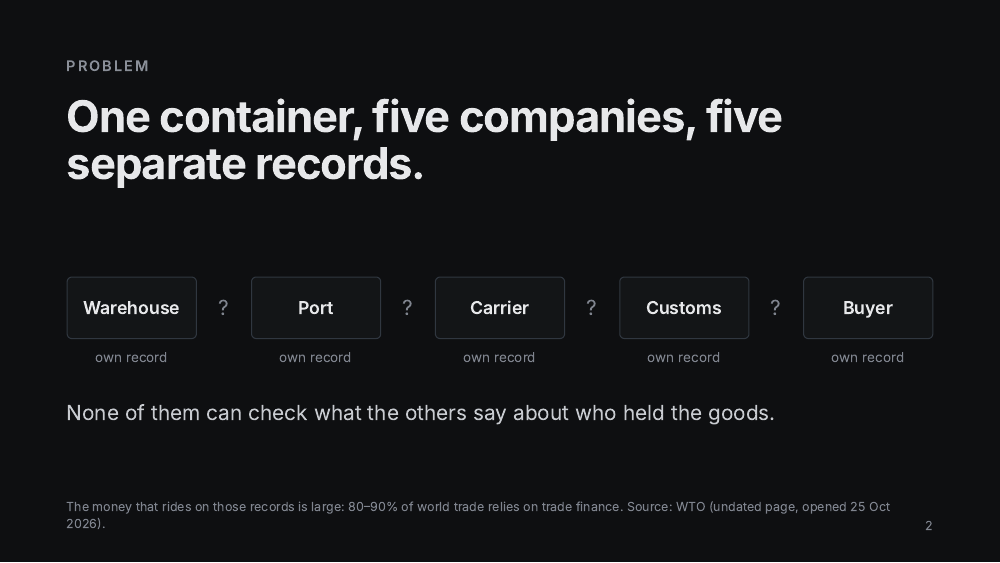
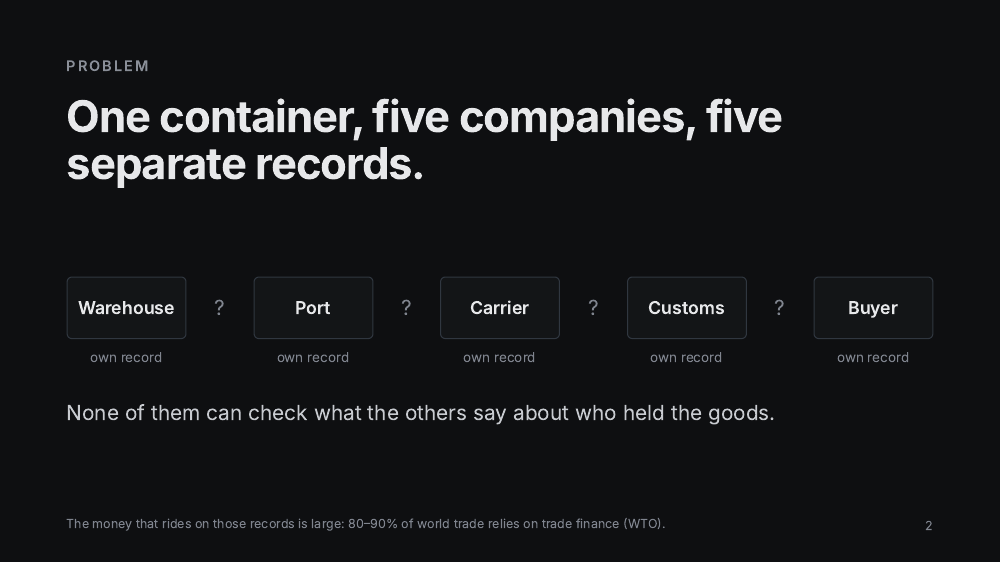
update from hackmeridian-rail

diff --git a/projects/hackmeridian-rail/deck/yc/deck.html b/projects/hackmeridian-rail/deck/yc/deck.html
@@ -21,7 +21,7 @@ h1 { font-size:84px; line-height:1.06; font-weight:700; letter-spacing:-.025em; 
 .gap { flex:1; text-align:center; font-size:40px; color:var(--faint); }
 .link { flex:1; position:relative; height:120px; }
 .link::before { content:""; position:absolute; left:0; right:0; top:59px; height:3px; background:var(--lime); }
-.link span { position:absolute; left:-20px; right:-20px; white-space:nowrap; top:76px; text-align:center; font-size:24px; color:var(--soft); }
+.link span { position:absolute; left:-20px; right:-20px; white-space:nowrap; top:90px; text-align:center; font-size:24px; color:var(--soft); }
 .recs { display:flex; justify-content:space-between; margin-top:20px; }
 .recs div { flex:0 0 230px; text-align:center; font-size:26px; color:var(--faint); }
 .bar { margin-top:36px; border:2px solid var(--lime); border-radius:10px; padding:22px 32px; font-size:32px; color:var(--fg); }

diff --git a/projects/hackmeridian-rail/deck/yc/build.py b/projects/hackmeridian-rail/deck/yc/build.py
@@ -38,7 +38,7 @@ h1 { font-size:84px; line-height:1.06; font-weight:700; letter-spacing:-.025em; 
 .gap { flex:1; text-align:center; font-size:40px; color:var(--faint); }
 .link { flex:1; position:relative; height:120px; }
 .link::before { content:""; position:absolute; left:0; right:0; top:59px; height:3px; background:var(--lime); }
-.link span { position:absolute; left:-20px; right:-20px; white-space:nowrap; top:76px; text-align:center; font-size:24px; color:var(--soft); }
+.link span { position:absolute; left:-20px; right:-20px; white-space:nowrap; top:90px; text-align:center; font-size:24px; color:var(--soft); }
 .recs { display:flex; justify-content:space-between; margin-top:20px; }
 .recs div { flex:0 0 230px; text-align:center; font-size:26px; color:var(--faint); }
 .bar { margin-top:36px; border:2px solid var(--lime); border-radius:10px; padding:22px 32px; font-size:32px; color:var(--fg); }
